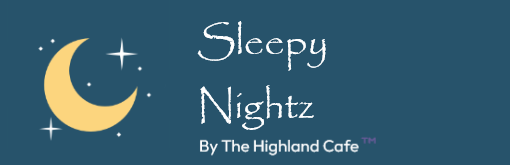
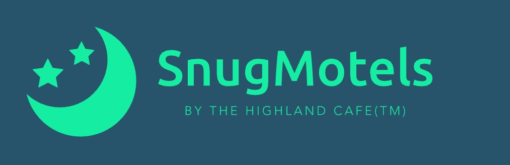
Rebranded 'SleepyNightz' as 'SnugMotels'

Changed region(s): [[0.0294, 0.1212, 0.8529, 0.8485], [0.3824, 0.8182, 0.7353, 0.9394], [0.0588, 0.2727, 0.0882, 0.303]]

diff --git a/hotelactivities/sn.html b/hotelactivities/sn.html
@@ -8,6 +8,7 @@
     <link rel="preconnect" href="https://fonts.googleapis.com">
     <link rel="preconnect" href="https://fonts.gstatic.com" crossorigin>
     <link rel="stylesheet" href="https://fonts.googleapis.com/css2?family=Material+Symbols+Rounded:opsz,wght,FILL,GRAD@48,400,0,0" />
+    <link href="https://fonts.googleapis.com/css2?family=Ubuntu:wght@500&display=swap" rel="stylesheet">
     <title>HiOS | Hotel Activities</title>
     <script>function back() {window.location.href="../hotelactivities.html";}</script>
 </head>
@@ -17,7 +18,7 @@
     <center>
         <div class="container">
             <!--img src="pics/logos/wenew.png" width="350" class="roundedImage"-->
-            <h1 class="blue-h2">SnugMotels</h1>
+            <h1 class="blue-h2" style="font-family: 'Ubuntu', sans-serif;color: #15eda2;">SnugMotels</h1>
             <p id="para">Staying at SnugMotels? Select an option from below to get started.</p>
         </div>
         <div class="translucentBox full">

diff --git a/hotelactivities/booking-sn.html b/hotelactivities/booking-sn.html
@@ -8,6 +8,7 @@
 	<link rel="preconnect" href="https://fonts.googleapis.com">
 	<link rel="preconnect" href="https://fonts.gstatic.com" crossorigin>
 	<link rel="stylesheet" href="https://fonts.googleapis.com/css2?family=Material+Symbols+Rounded:opsz,wght,FILL,GRAD@48,400,0,0" />
+	<link href="https://fonts.googleapis.com/css2?family=Ubuntu:wght@500&display=swap" rel="stylesheet">
 	<title>HiOS | Book a room</title>
 	<script>function back() {window.location.href="sn.html";}</script>
 </head>
@@ -16,7 +17,7 @@
 	<br><br>
 		<center>
 			<div class="container">
-			<h1 class="blue-h2">Book a Room @ SnugMotels</h1>
+			<h1 class="blue-h2" style="font-family: 'Ubuntu', sans-serif;color: #15eda2;">Book a Room @ SnugMotels</h1>
 					<p id="para">Wanting to book a room to stay with us @ SnugMotels? <br>Fill in the below form, and we'll email you back if we are fully booked on those days or not.</p>
 					</div>
 					<div class="translucentBox full">

diff --git a/hotelactivities/checkout-sn.html b/hotelactivities/checkout-sn.html
@@ -9,6 +9,7 @@
 	<link rel="preconnect" href="https://fonts.gstatic.com" crossorigin>
 	<link href="https://fonts.googleapis.com/css2?family=Pangolin&display=swap" rel="stylesheet">
 	<link rel="stylesheet" href="https://fonts.googleapis.com/css2?family=Material+Symbols+Rounded:opsz,wght,FILL,GRAD@48,400,0,0" />
+	<link href="https://fonts.googleapis.com/css2?family=Ubuntu:wght@500&display=swap" rel="stylesheet">
 	<title>HiOS | Check Out</title>
 	<script>function back() {window.location.href="sn.html";}</script>
 </head>
@@ -17,7 +18,7 @@
 	<br><br>
 		<center>
 			<div class="container">
-			<h1 class="blue-h2">Check-Out @ SnugMotels</h1>
+			<h1 class="blue-h2" style="font-family: 'Ubuntu', sans-serif;color: #15eda2;">Check-Out @ SnugMotels</h1>
 		<p id="para">Please fill in the form below to check out of your Room @ SnugMotels</p>
 		</div>
 		<div class="translucentBox full">

diff --git a/hotelactivities/checkin-sn.html b/hotelactivities/checkin-sn.html
@@ -8,6 +8,7 @@
 	<link rel="preconnect" href="https://fonts.googleapis.com">
 	<link rel="preconnect" href="https://fonts.gstatic.com" crossorigin>
 	<link rel="stylesheet" href="https://fonts.googleapis.com/css2?family=Material+Symbols+Rounded:opsz,wght,FILL,GRAD@48,400,0,0" />
+	<link href="https://fonts.googleapis.com/css2?family=Ubuntu:wght@500&display=swap" rel="stylesheet">
 	<title>HiOS | Check In</title>
 	<script>function back() {window.location.href="sn.html";}</script>
 </head>
@@ -16,7 +17,7 @@
 	<br><br>
 		<center>
 			<div class="container">
-			<h1 class="blue-h2">Check-In @ SnugMotels</h1>
+			<h1 class="blue-h2" style="font-family: 'Ubuntu', sans-serif;color: #15eda2;">Check-In @ SnugMotels</h1>
 		<p id="para">Please fill in the form below to check in to your Room @ SnugMotels</p>
 		</div>
 		<div class="translucentBox full">
